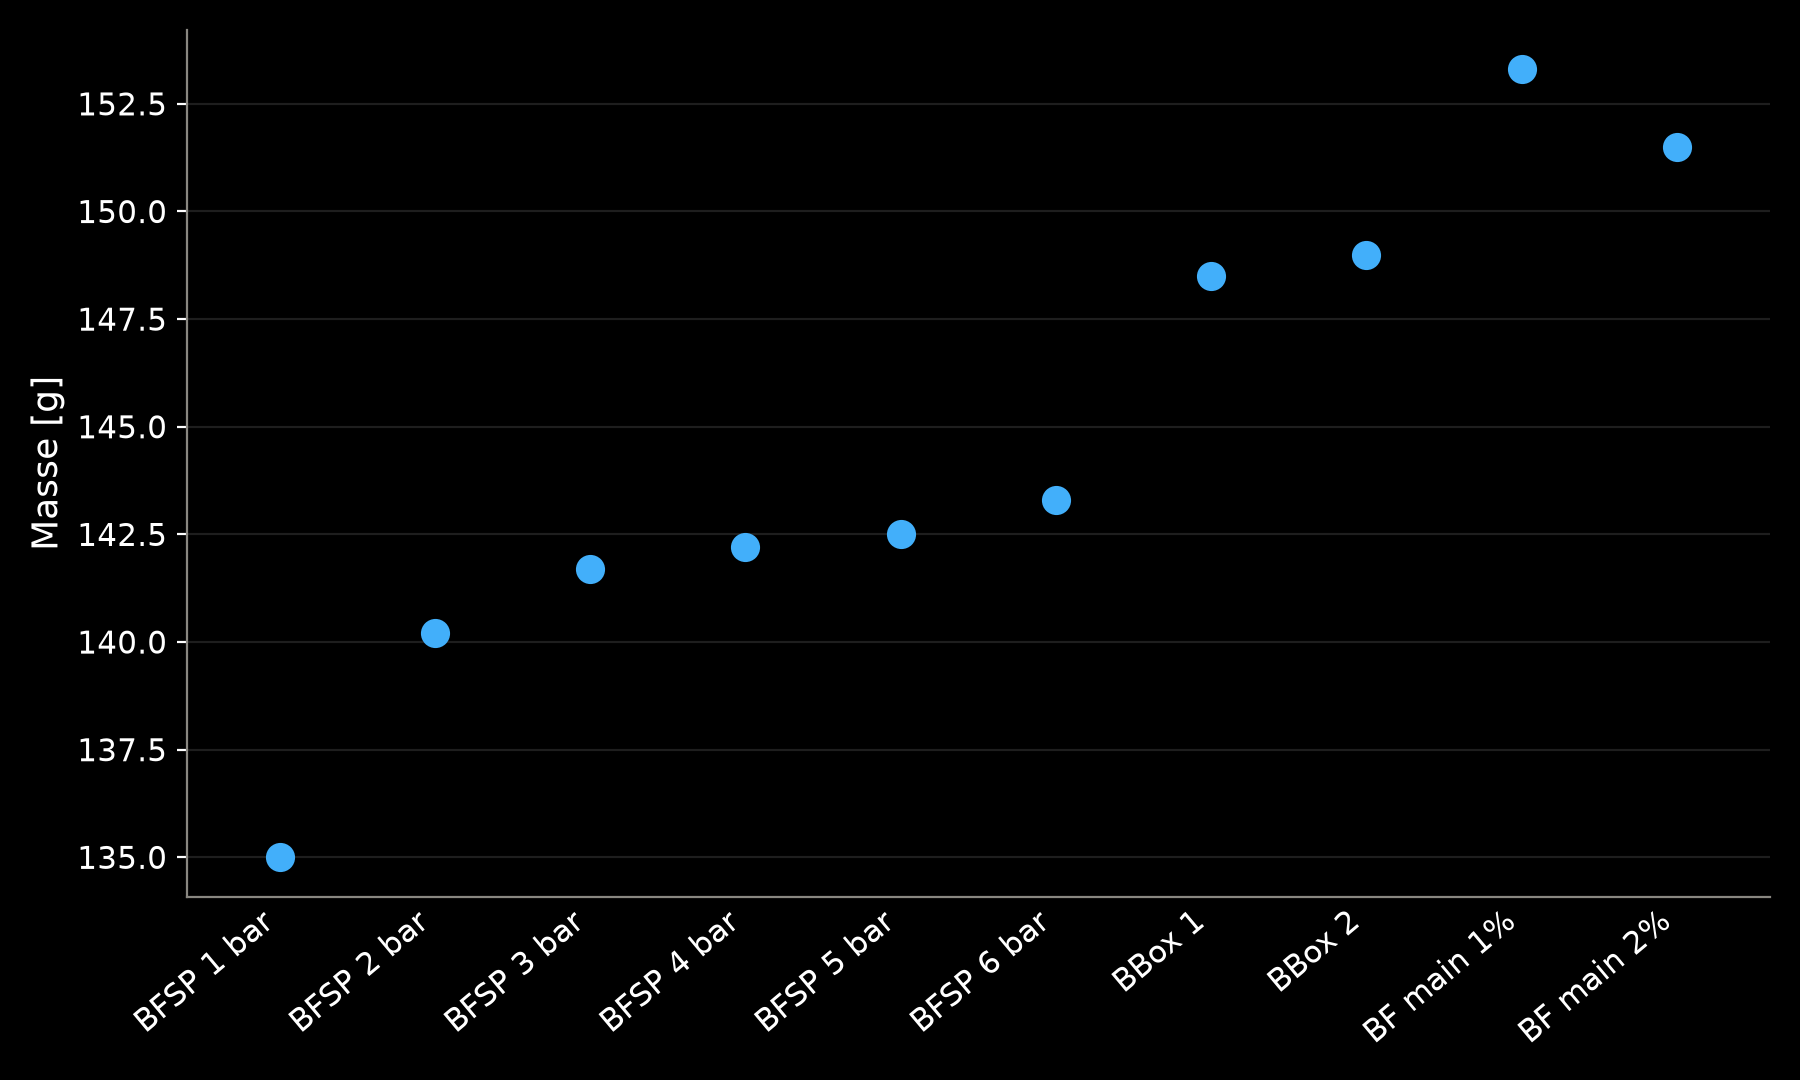
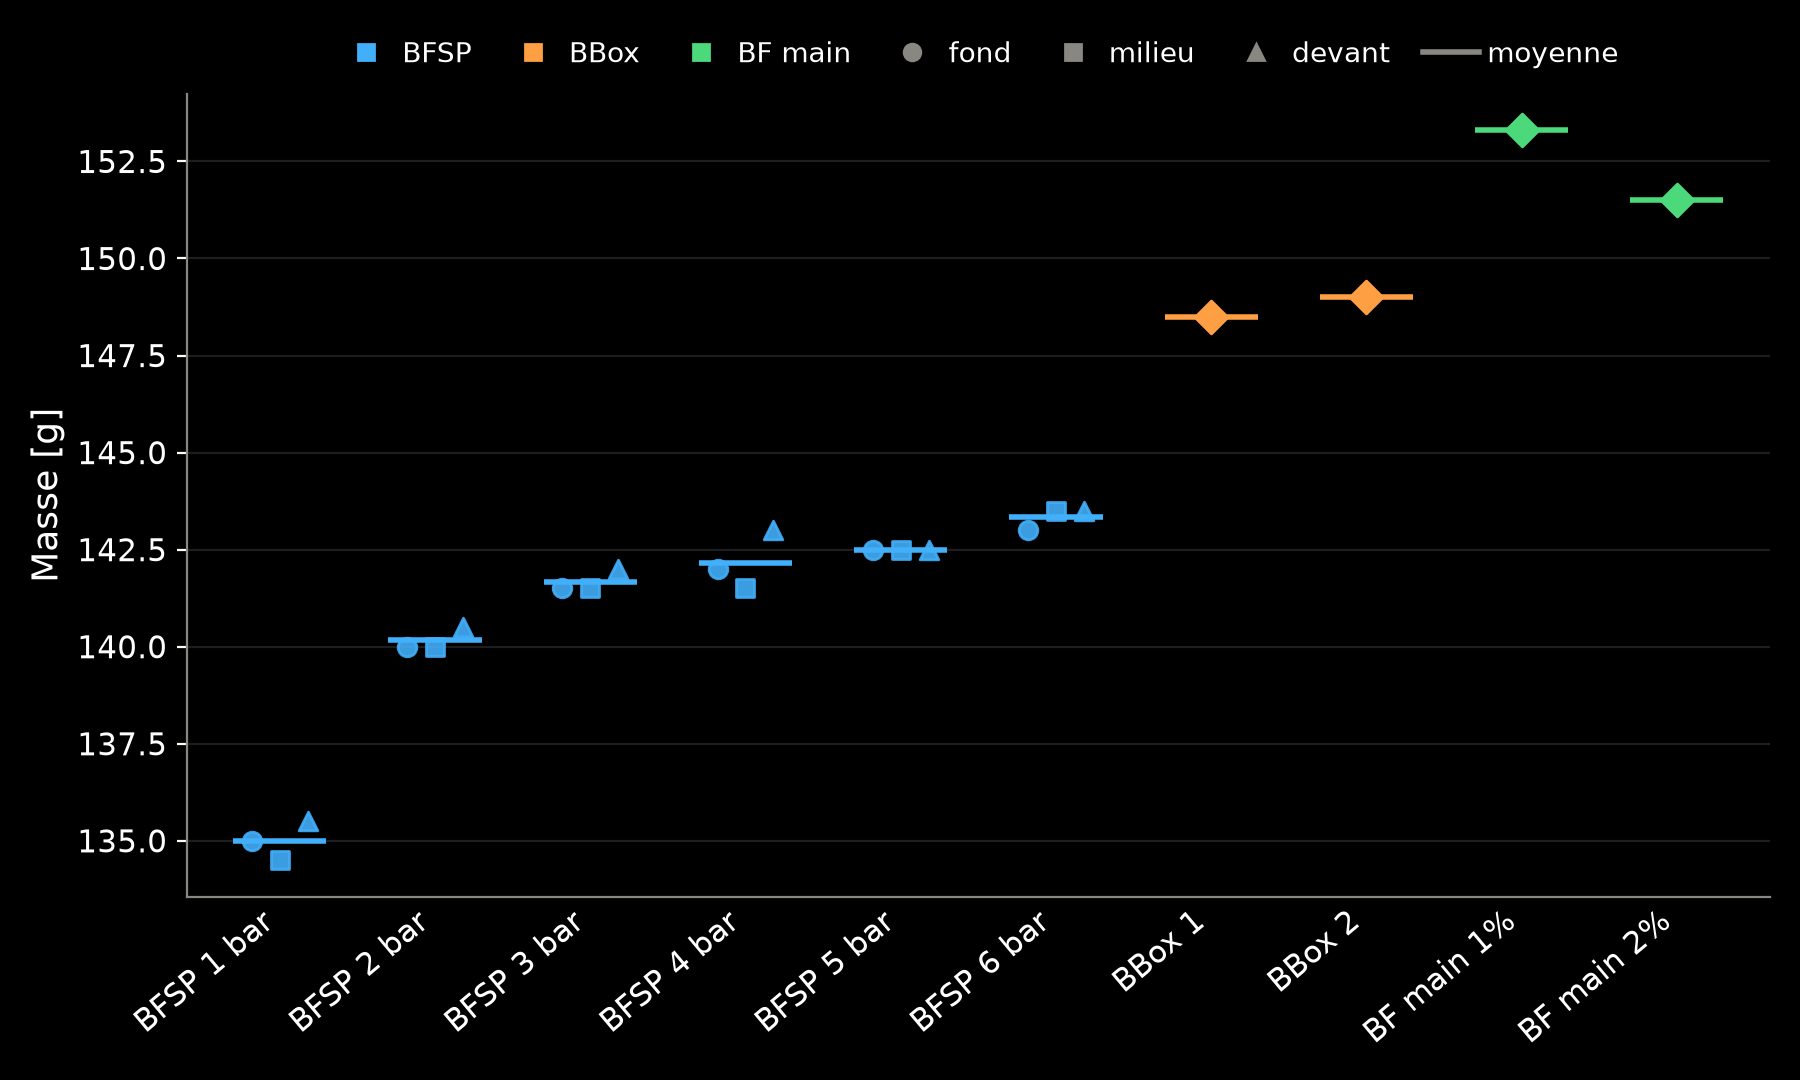
Scatterplots for tableaux 1-3 from raw BFSP data

diff --git a/index.html b/index.html
@@ -162,7 +162,7 @@
         </div>
         <div>
         <table data-id="tbl-3">
-          <thead><tr><th>[...]</th><th>\(\tau_{max}\) [N]</th></tr></thead>
+          <thead><tr><th>Échantillon</th><th>\(\tau_{max}\) [N]</th></tr></thead>
           <tbody>
             <tr><td>BFSP 1 bar</td><td>673</td></tr>
             <tr><td>BFSP 2 bar</td><td>738</td></tr>
@@ -172,8 +172,8 @@
             <tr class="sep"><td>BFSP 6 bar</td><td>1 161</td></tr>
             <tr><td>BBox 1</td><td>411</td></tr>
             <tr class="sep"><td>BBox 2</td><td>431</td></tr>
-            <tr><td>BF main 1%</td><td>1834</td></tr>
-            <tr><td>BF main 2%</td><td>[...]</td></tr>
+            <tr><td>BF main 1%</td><td>1 834</td></tr>
+            <tr><td>BF main 2%</td><td>5 226</td></tr>
           </tbody>
         </table>
         </div>
@@ -181,11 +181,11 @@
       <aside class="notes"><p>[...]</p></aside>
     </section>
 
-    <!-- Tableau 1: scatterplot of Masse [g] per sample (scripts/plot_masse.py), notes on the slide below -->
+    <!-- Tableau 1: scatterplot of Masse [g] per sample (scripts/plot_scatter.py), notes on the slide below -->
     <section>
       <section class="centered">
         <figure>
-          <img src="figures/masse_dark.png" alt="Nuage de points de la masse en grammes pour chaque échantillon : BFSP 1 à 6 bar de 135 à 143 g, BBox 1 et 2 vers 149 g, BF main 1 % et 2 % vers 152 g.">
+          <img src="figures/masse_dark.png" alt="Nuage de points de la masse en grammes pour chaque échantillon, trois positions de mesure et la moyenne. BFSP de 135 à 143 g, BBox vers 149 g, BF main vers 152 g.">
         </figure>
         <aside class="notes"><p>[...]</p></aside>
       </section>
@@ -258,26 +258,12 @@
       <aside class="notes"><p>[...]</p></aside>
     </section>
 
-    <!-- Tableau 2: big table (morphs from overview), notes on the slide below -->
+    <!-- Tableau 2: scatterplot (scripts/plot_scatter.py), notes on the slide below -->
     <section>
-      <section data-auto-animate>
-        <div class="big-table">
-        <table data-id="tbl-2">
-          <thead><tr><th>Échantillon</th><th>Perméabilité [GF]</th></tr></thead>
-          <tbody>
-            <tr><td>BFSP 1 bar</td><td>310</td></tr>
-            <tr><td>BFSP 2 bar</td><td>237</td></tr>
-            <tr><td>BFSP 3 bar</td><td>228</td></tr>
-            <tr><td>BFSP 4 bar</td><td>201</td></tr>
-            <tr><td>BFSP 5 bar</td><td>205</td></tr>
-            <tr class="sep"><td>BFSP 6 bar</td><td>193</td></tr>
-            <tr><td>BBox 1</td><td>180</td></tr>
-            <tr class="sep"><td>BBox 2</td><td>210</td></tr>
-            <tr><td>BF main 1%</td><td>149,5</td></tr>
-            <tr><td>BF main 2%</td><td>235,5</td></tr>
-          </tbody>
-        </table>
-        </div>
+      <section class="centered">
+        <figure>
+          <img src="figures/permeabilite_dark.png" alt="Nuage de points de la perméabilité pour chaque échantillon, trois positions de mesure et la moyenne. BFSP de 310 à 190, BBox 180 et 210, BF main 149,5 et 235,5.">
+        </figure>
         <aside class="notes"><p>[...]</p></aside>
       </section>
       <section>
@@ -349,26 +335,12 @@
       <aside class="notes"><p>[...]</p></aside>
     </section>
 
-    <!-- Tableau 3: big table (morphs from overview), notes on the slide below -->
+    <!-- Tableau 3: scatterplot (scripts/plot_scatter.py), notes on the slide below -->
     <section>
-      <section data-auto-animate>
-        <div class="big-table">
-        <table data-id="tbl-3">
-          <thead><tr><th>[...]</th><th>\(\tau_{max}\) [N]</th></tr></thead>
-          <tbody>
-            <tr><td>BFSP 1 bar</td><td>[...]</td></tr>
-            <tr><td>BFSP 2 bar</td><td>[...]</td></tr>
-            <tr><td>BFSP 3 bar</td><td>[...]</td></tr>
-            <tr><td>BFSP 4 bar</td><td>[...]</td></tr>
-            <tr><td>BFSP 5 bar</td><td>[...]</td></tr>
-            <tr class="sep"><td>BFSP 6 bar</td><td>[...]</td></tr>
-            <tr><td>BBox 1</td><td>[...]</td></tr>
-            <tr class="sep"><td>BBox 2</td><td>[...]</td></tr>
-            <tr><td>BF main 1%</td><td>[...]</td></tr>
-            <tr><td>BF main 2%</td><td>[...]</td></tr>
-          </tbody>
-        </table>
-        </div>
+      <section class="centered">
+        <figure>
+          <img src="figures/cisaillement_dark.png" alt="Nuage de points de la résistance au cisaillement en newtons pour BFSP 1 à 6 bar, trois positions de mesure et la moyenne, de 673 à 1161 N.">
+        </figure>
         <aside class="notes"><p>[...]</p></aside>
       </section>
       <section>

diff --git a/scripts/plot_scatter.py b/scripts/plot_scatter.py
@@ -1,0 +1,92 @@
+"""Scatterplots for Tableau 1-3 (masse, permeabilite, cisaillement), light + dark.
+
+BFSP: raw points per position (fond/milieu/devant) from data/bfsp_raw.csv, plus the mean.
+BBox / BF main: only means exist (read from the first tbl-1 / tbl-2 in index.html).
+Colour = method (BFSP, BBox, BF main), marker = position.
+Writes figures/{masse,permeabilite,cisaillement}_{light,dark}.png.
+"""
+import csv
+import re
+from pathlib import Path
+
+import matplotlib
+matplotlib.use("Agg")
+import matplotlib.pyplot as plt
+from matplotlib.lines import Line2D
+
+root = Path(__file__).resolve().parent.parent
+html = (root / "index.html").read_text()
+
+
+def html_means(table_id):
+    t = re.search(rf'<table data-id="{table_id}">(.*?)</table>', html, re.S).group(1)
+    rows = re.findall(r"<tr[^>]*><td>(.*?)</td><td>(.*?)</td></tr>", t)
+    return {n: float(v.replace(",", ".")) for n, v in rows if re.match(r"^[\d,\.]+$", v)}
+
+
+raw = {}
+with open(root / "data" / "bfsp_raw.csv") as f:
+    for r in csv.DictReader(f):
+        raw.setdefault(r["quantity"], {})[int(r["pression"])] = {
+            p: float(r[p]) for p in ("fond", "milieu", "devant")}
+
+QUANTITIES = {
+    "masse": dict(label="Masse [g]", means=html_means("tbl-1")),
+    "permeabilite": dict(label="Perméabilité [GF]", means=html_means("tbl-2")),
+    "cisaillement": dict(label=r"$\tau_{max}$ [N]", means={}),
+}
+SAMPLES = ([("BFSP", f"BFSP {i} bar") for i in range(1, 7)]
+           + [("BBox", f"BBox {i}") for i in (1, 2)]
+           + [("BF main", f"BF main {i}%") for i in (1, 2)])
+COLORS = {"BFSP": "#42affa", "BBox": "#ff9f43", "BF main": "#4cd97b"}
+POS = {"fond": ("o", -0.18), "milieu": ("s", 0.0), "devant": ("^", 0.18)}
+THEMES = {
+    "dark": dict(bg="#000000", fg="#ffffff", muted="#898781", grid=(1, 1, 1, 0.12)),
+    "light": dict(bg="#ffffff", fg="#111111", muted="#6b6b6b", grid=(0, 0, 0, 0.12)),
+}
+
+for q, cfg in QUANTITIES.items():
+    # samples with data for this quantity, keeping order
+    pts = []  # (x, group, name, {pos: value} or None, mean)
+    for group, name in SAMPLES:
+        if group == "BFSP":
+            i = int(name.split()[1])
+            vals = raw[q][i]
+            pts.append((group, name, vals, sum(vals.values()) / 3))
+        elif name in cfg["means"]:
+            pts.append((group, name, None, cfg["means"][name]))
+    for theme, c in THEMES.items():
+        fig, ax = plt.subplots(figsize=(9, 5.4), dpi=200, facecolor=c["bg"])
+        ax.set_facecolor(c["bg"])
+        for x, (group, name, vals, mean) in enumerate(pts):
+            col = COLORS[group]
+            if vals:
+                for p, v in vals.items():
+                    m, dx = POS[p]
+                    ax.scatter(x + dx, v, s=45, marker=m, color=col, alpha=0.9, zorder=3)
+            ax.hlines(mean, x - 0.3, x + 0.3, color=col, linewidth=2, zorder=4)
+            if not vals:
+                ax.scatter(x, mean, s=70, marker="D", color=col, zorder=3)
+        ax.set_xticks(range(len(pts)), [p[1] for p in pts], rotation=40, ha="right",
+                      color=c["fg"], fontsize=11)
+        ax.tick_params(axis="y", colors=c["fg"], labelsize=11)
+        ax.tick_params(axis="x", length=0)
+        ax.set_ylabel(cfg["label"], color=c["fg"], fontsize=13)
+        ax.grid(axis="y", color=c["grid"], linewidth=0.8)
+        ax.set_axisbelow(True)
+        for side in ("top", "right"):
+            ax.spines[side].set_visible(False)
+        for side in ("left", "bottom"):
+            ax.spines[side].set_color(c["muted"])
+        ax.set_xlim(-0.6, len(pts) - 0.4)
+        handles = [Line2D([], [], marker="s", linestyle="", color=col, label=g)
+                   for g, col in COLORS.items() if any(p[0] == g for p in pts)]
+        handles += [Line2D([], [], marker=m, linestyle="", color=c["muted"], label=p)
+                    for p, (m, _) in POS.items()]
+        handles.append(Line2D([], [], color=c["muted"], linewidth=2, label="moyenne"))
+        leg = ax.legend(handles=handles, loc="lower center", bbox_to_anchor=(0.5, 1.0), ncol=7,
+                        frameon=False, fontsize=10, columnspacing=1.2, handletextpad=0.3, labelcolor=c["fg"])
+        fig.tight_layout()
+        fig.savefig(root / "figures" / f"{q}_{theme}.png", facecolor=c["bg"])
+        plt.close(fig)
+    print(q, [(p[1], round(p[3], 1)) for p in pts])
